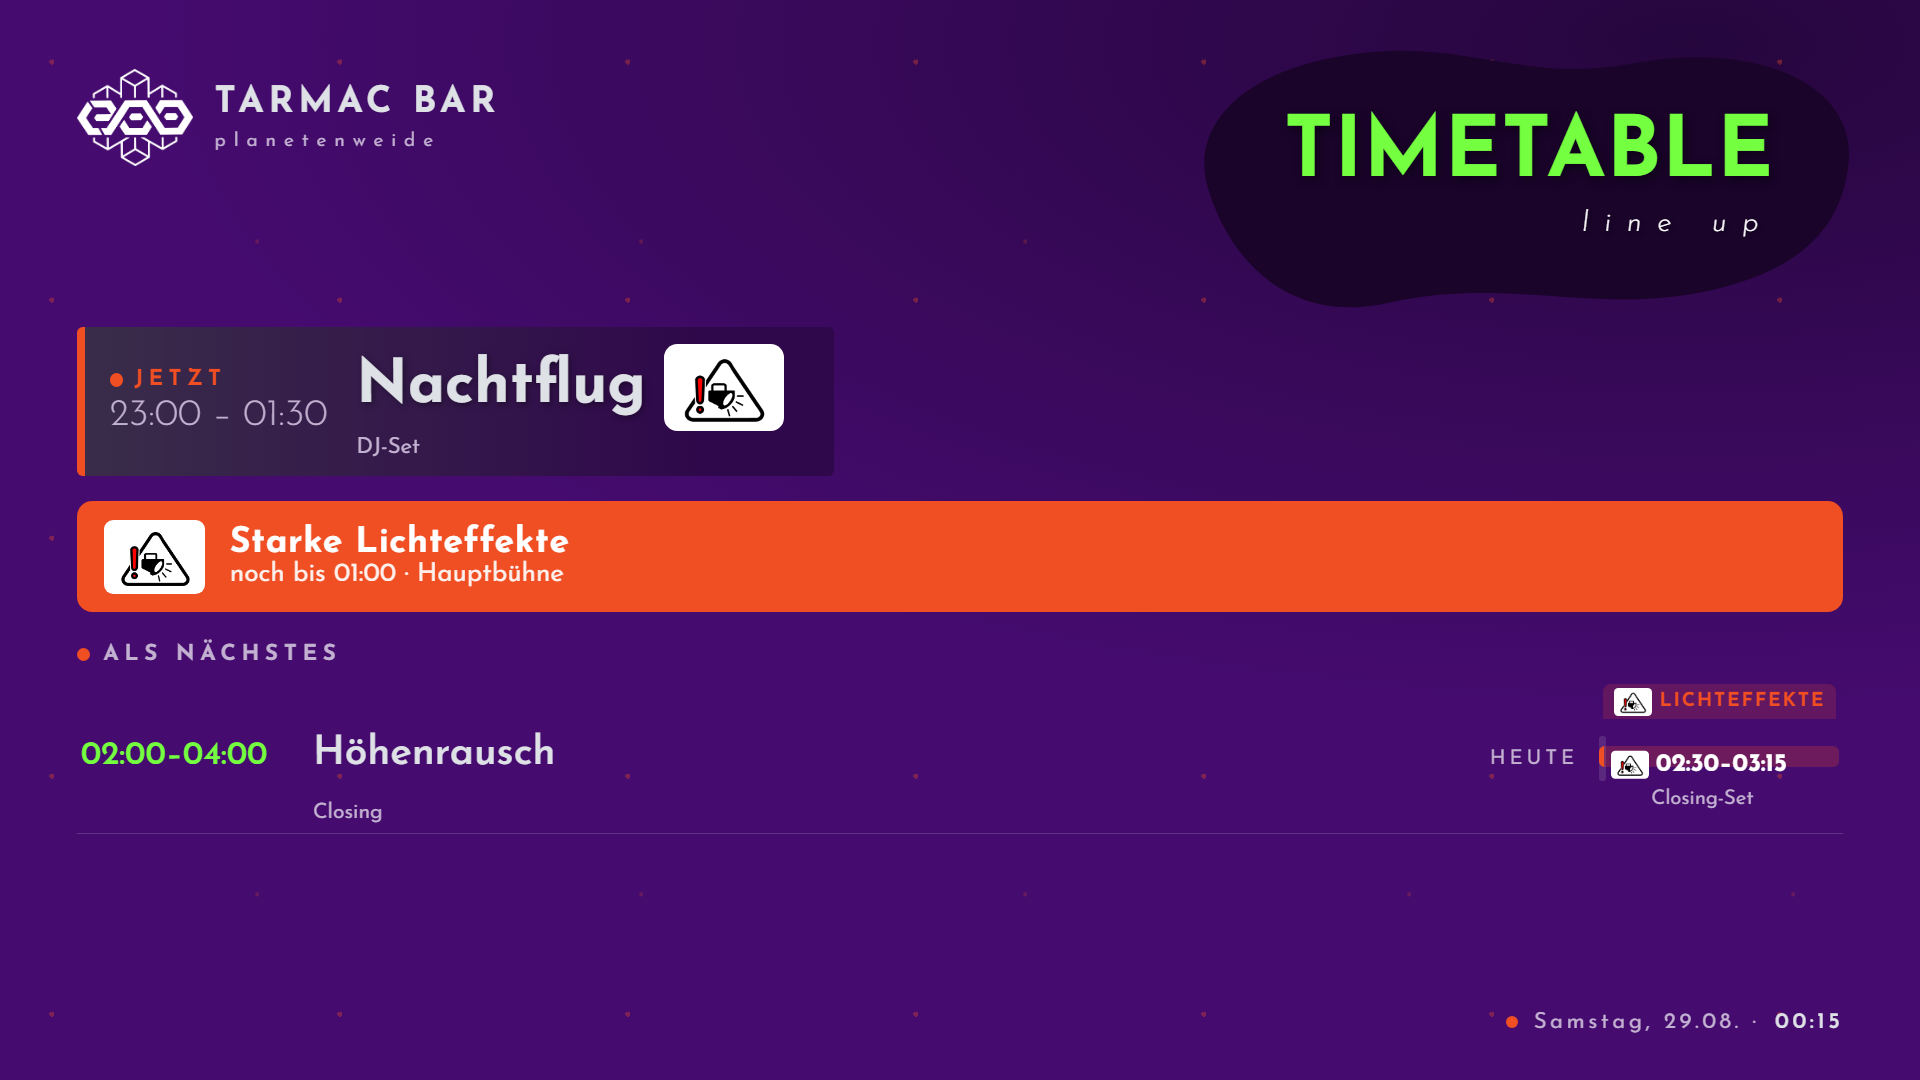
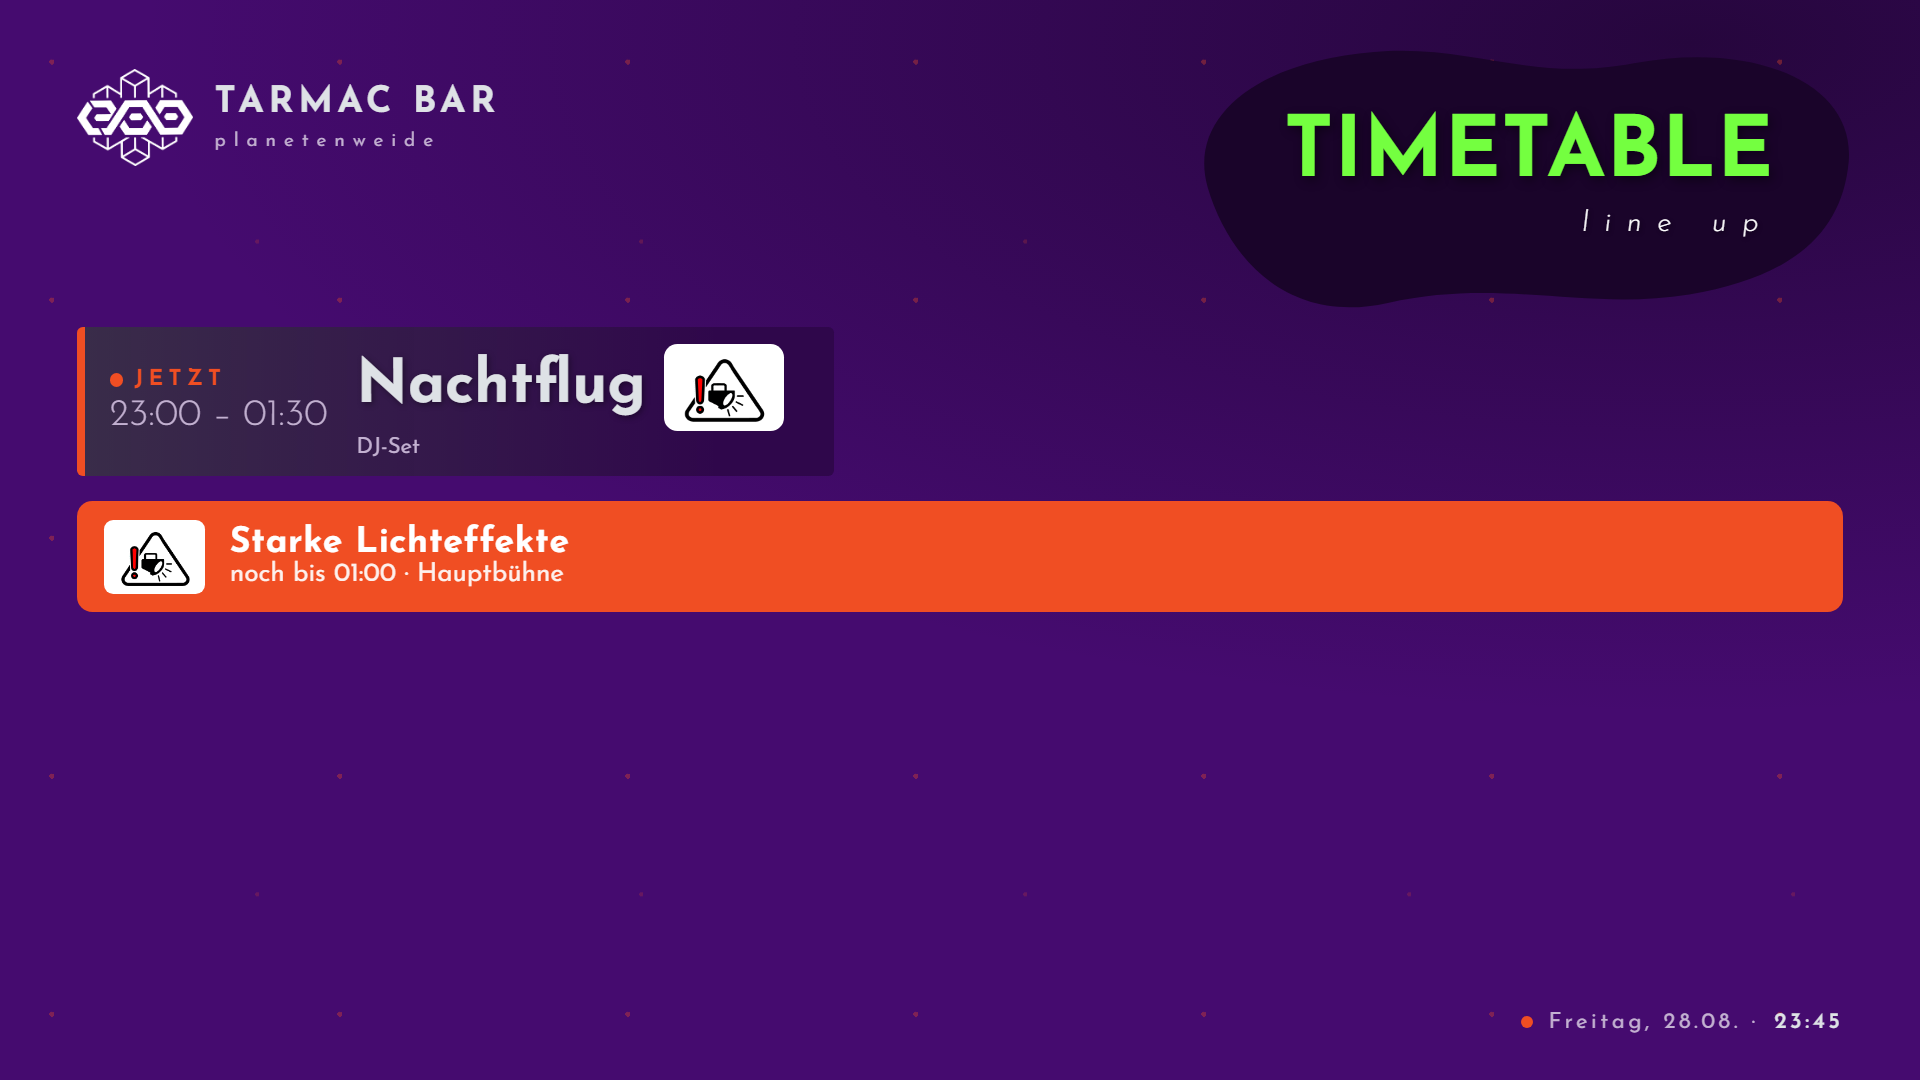
Lichtspalte aufgeraeumt
Das Warnzeichen steht jetzt einmal im Spaltenreiter statt in jeder Zeile -
und dort dafuer deutlich groesser. In jeder Zeile wiederholt war es Zierrat,
der die Uhrzeiten zudeckte.

Beim Nachmessen kam der eigentliche Grund fuer das unruhige Bild heraus: der
Block sass angeblich zeitanteilig in der Zeile, tatsaechlich zog min-height in
CSS jeden Block auf dieselben 30 px - bei einer Spur von 49 px. Die Lage war
also reine Behauptung, und schlimmer: der Block ragte bis zu 14 px aus seiner
Zeile heraus und stand neben dem naechsten Act.

Statt die Anteiligkeit zu retten, ist sie jetzt aufgegeben. Eine Zeile ist
keine drei Zeilenhoehen hoch; ein Drittel davon sind zwanzig Pixel, und darin
ist keine Uhrzeit lesbar. Ein Block, in dem "23:30-01:00" steht, sagt mehr als
ein Streifen an der rechnerisch richtigen Stelle.

- ein Block je Phase, der seine Zeile ausfuellt
- zwei Phasen in einer Zeile teilen sie sich; die beginnende bekommt mehr
  Platz und eine kraeftige Oberkante, die weiterlaufende ist schmaler
- die Bahn im Hintergrund faellt weg: als duenner Strich war sie eine dritte
  Kante neben dem Block, ueber die volle Breite sah jede lichtfreie Zeile aus
  wie eine Phase
- die Spur reicht bis an den Zeilenrand, das Polster schnitt sie vorher ab
- der Zusatz ("Hauptbuehne") steht ausserhalb des Textflusses, sonst schob er
  beim Zentrieren die Uhrzeit ueber die Blockkante

Tests: zwei alte hielten die alte Regel fest und sind umgeschrieben; neu dazu
[…]

diff --git a/test/e2e/lichteffekte.spec.js b/test/e2e/lichteffekte.spec.js
@@ -92,33 +92,65 @@ test.describe('Kennzeichnung im Timetable', () => {
     await expect(page.locator('.klLicht')).toHaveCount(0);
   });
 
-  test('der Balken sitzt versetzt - dort, wo die Phase wirklich anfaengt',
-    async ({ page, bar }) => {
-      bar.konfig(programm());
-      await zeitStellen(page, FREITAG_20_UHR);
-      await page.goto(bar.adresse + '/');
+  test('der Block fuellt die Zeile seines Acts aus', async ({ page, bar }) => {
+    bar.konfig(programm());
+    await zeitStellen(page, FREITAG_20_UHR);
+    await page.goto(bar.adresse + '/');
 
-      // Nachtflug 23:00-01:30, Licht 23:30-01:00: der Balken muss auf einem
-      // Fuenftel der Zeilenhoehe anfangen und bei vier Fuenfteln aufhoeren.
-      // Genau das war der Punkt an der eigenen Spalte - eine eigene Zeile
-      // konnte nicht zeigen, dass das Licht mitten im Set beginnt.
-      const lage = await page.locator('.ttRow.hatLicht').evaluate((zeile) => {
-        const spur = zeile.querySelector('.lichtSpur').getBoundingClientRect();
-        const balken = zeile.querySelector('.lichtBalken').getBoundingClientRect();
-        return {
-          von: (balken.top - spur.top) / spur.height,
-          bis: (balken.bottom - spur.top) / spur.height,
-          breite: balken.width
-        };
-      });
-
-      expect(lage.von).toBeGreaterThan(0.12);
-      expect(lage.von).toBeLessThan(0.28);
-      expect(lage.bis).toBeGreaterThan(0.72);
-      expect(lage.bis).toBeLessThan(0.88);
-      // Und breit genug, um aus der Entfernung ueberhaupt aufzufallen
-      expect(lage.breite).toBeGreaterThan(30);
+    // Der Block sass frueher zeitanteilig in der Zeile. Zu sehen war das nie:
+    // eine Zeile ist keine drei Zeilenhoehen hoch, und eine Mindesthoehe im
+    // CSS zog jeden Block auf dasselbe Mass - dafuer aber aus seiner Zeile
+    // heraus, neben den falschen Act. Jetzt fuellt er seine Zeile, und wann
+    // genau es blitzt, steht als Uhrzeit darin.
+    const lage = await page.locator('.ttRow.hatLicht').evaluate((zeile) => {
+      const spur = zeile.querySelector('.lichtSpur').getBoundingClientRect();
+      const balken = zeile.querySelector('.lichtBalken').getBoundingClientRect();
+      return {
+        von: (balken.top - spur.top) / spur.height,
+        bis: (balken.bottom - spur.top) / spur.height,
+        breite: balken.width
+      };
     });
+
+    expect(lage.von).toBeLessThan(0.02);
+    expect(lage.bis).toBeGreaterThan(0.98);
+    // Und breit genug, um aus der Entfernung ueberhaupt aufzufallen
+    expect(lage.breite).toBeGreaterThan(30);
+  });
+
+  test('kein Block ragt in die Nachbarzeile', async ({ page, bar }) => {
+    // Der eigentliche Fehler: eine Mindesthoehe im CSS schob den Block ueber
+    // die Unterkante seiner Zeile hinaus - er stand dann neben dem naechsten
+    // Act. Gemessen wurden bis zu vierzehn Pixel daneben.
+    bar.konfig(programm({
+      lichteffekte: [
+        { id: 'l1', date: '2026-08-28', start: '23:30', end: '01:00', note: '' },
+        { id: 'l2', date: '2026-08-29', start: '01:15', end: '01:40', note: 'kurz' },
+        { id: 'l3', date: '2026-08-29', start: '02:50', end: '03:05', note: 'sehr kurz' }
+      ]
+    }));
+    await zeitStellen(page, FREITAG_20_UHR);
+    await page.goto(bar.adresse + '/');
+    await page.waitForSelector('.ttRow.hatLicht');
+
+    const ausreisser = await page.evaluate(() => {
+      const raus = [];
+      document.querySelectorAll('.ttRow').forEach((zeile) => {
+        const spur = zeile.querySelector('.lichtSpur');
+        if (!spur) return;
+        const s = spur.getBoundingClientRect();
+        zeile.querySelectorAll('.lichtBalken').forEach((b) => {
+          const r = b.getBoundingClientRect();
+          if (r.top < s.top - 1 || r.bottom > s.bottom + 1) {
+            raus.push({ oben: Math.round(r.top - s.top),
+                        unten: Math.round(r.bottom - s.bottom) });
+          }
+        });
+      });
+      return raus;
+    });
+    expect(ausreisser).toEqual([]);
+  });
 
   test('ueber zwei Acts laeuft der Balken durch', async ({ page, bar }) => {
     bar.konfig(programm({
@@ -224,20 +256,32 @@ test.describe('Das Zeichen', () => {
     await zeitStellen(page, FREITAG_20_UHR);
     await page.goto(bar.adresse + '/');
 
-    const bild = page.locator('.lichtSpur .lichtZeichen img');
+    const bild = page.locator('.klLicht .lichtZeichen img');
     await expect(bild).toHaveAttribute('src', 'branding/lichteffekte.png');
     await bildGeladen(bild);
 
     // Die gelieferte Grafik ist schwarz auf transparent. Ohne helle Flaeche
     // waere sie auf dem dunklen Hintergrund praktisch unsichtbar.
-    const grund = await page.locator('.lichtSpur .lichtZeichen')
+    const grund = await page.locator('.klLicht .lichtZeichen')
       .evaluate(el => getComputedStyle(el).backgroundColor);
     expect(grund).toBe('rgb(255, 255, 255)');
 
     // Und sie muss eine brauchbare Groesse haben, nicht ein paar Pixel
     const hoehe = await bild.evaluate(el => el.getBoundingClientRect().height);
-    expect(hoehe).toBeGreaterThan(10);
+    expect(hoehe).toBeGreaterThan(20);
   });
+
+  test('steht einmal ueber der Spalte, nicht in jeder Zeile',
+    async ({ page, bar }) => {
+      // In jeder Zeile wiederholt war es Zierrat, der die Uhrzeiten zudeckte.
+      bar.konfig(programm());
+      await zeitStellen(page, FREITAG_20_UHR);
+      await page.goto(bar.adresse + '/');
+      await page.waitForSelector('.ttRow.hatLicht');
+
+      await expect(page.locator('.klLicht .lichtZeichen')).toHaveCount(1);
+      await expect(page.locator('.lichtSpur .lichtZeichen')).toHaveCount(0);
+    });
 });
 
 test.describe('Eigene Seite fuers Wochenende', () => {

diff --git a/src/player.css b/src/player.css
@@ -954,6 +954,10 @@ body.uhrUnsicher .fussUhr b { color: var(--accent2); }
 }
 .lichtZeichen.gross { border-radius: 0.3em; padding: 0.16em 0.24em; }
 .lichtZeichen.gross img { height: 2.1em; }
+/* Im Spaltenreiter steht es fuer die ganze Spalte - dafuer darf es deutlich
+   groesser sein als eine Zeilenbeschriftung. */
+.lichtZeichen.kopf { border-radius: 0.28em; padding: 0.14em 0.2em; }
+.lichtZeichen.kopf img { height: 1.75em; }
 
 /* Eigene Spalte statt eigener Zeile.
 
@@ -983,7 +987,7 @@ body.uhrUnsicher .fussUhr b { color: var(--accent2); }
 
    Die Beschriftung muss in die Spaltenbreite passen - mit der Sperrung des
    uebrigen Kleinkrams lief sie ueber den Bildrand hinaus. */
-.ttKopf { margin-bottom: 0.25em; }
+.ttKopf { margin-bottom: 0.1em; }
 .klLicht {
   grid-column: 4;
   justify-self: start;
@@ -999,7 +1003,7 @@ body.uhrUnsicher .fussUhr b { color: var(--accent2); }
   /* Angedeuteter Reiter: oben rund, unten offen zur Spalte hin */
   background: color-mix(in srgb, var(--accent2) 18%, transparent);
   border-radius: 0.4em 0.4em 0 0;
-  padding: 0.22em 0.55em 0.18em;
+  padding: 0.18em 0.5em 0.14em;
 }
 body.spar .klLicht { background: none; }
 
@@ -1011,20 +1015,16 @@ body.spar .klLicht { background: none; }
   grid-row: 1 / -1;
   align-self: stretch;
   min-height: 2.6em;
+  /* Ueber das Polster der Zeile hinweg: sonst blieben von einer Zeile nur zwei
+     Drittel Spur uebrig, und die Lage einer Phase darin wurde zur Behauptung. */
+  margin-top: -0.5em;
+  margin-bottom: -0.5em;
 }
 
-/* Eine dezente Achse, damit die Spalte als Spalte lesbar ist und der Balken
-   erkennbar ein Ausschnitt davon. */
-.lichtSpur::before {
-  content: '';
-  position: absolute;
-  left: 0;
-  top: 0.15em;
-  bottom: 0.15em;
-  width: 0.32em;
-  border-radius: 0.16em;
-  background: color-mix(in srgb, #fff 12%, transparent);
-}
+/* Keine Bahn im Hintergrund mehr. Als duenner Strich stand sie als dritte
+   Kante neben dem Block, ueber die volle Breite sah jede lichtfreie Zeile aus
+   wie eine Phase. Wofuer die Spalte da ist, sagt der Reiter darueber - Farbe
+   bekommt nur, wo wirklich Licht ist. */
 
 .lichtBalken {
   position: absolute;
@@ -1033,43 +1033,58 @@ body.spar .klLicht { background: none; }
   /* Ein duenner Strich waere rechnerisch richtig und trotzdem aus drei Metern
      nicht zu sehen. Also eine Flaeche ueber die ganze Spaltenbreite: die Lage
      bleibt dieselbe, sie faellt nur auf. */
-  background: color-mix(in srgb, var(--accent2) 24%, transparent);
-  border-left: 0.3em solid var(--accent2);
-  /* Eine kurze Phase in einem langen Set ergibt sonst einen Streifen von
-     wenigen Pixeln. */
-  min-height: 1.1em;
+  background: color-mix(in srgb, var(--accent2) 34%, transparent);
+  /* Kein min-height: eine Mindesthoehe schob den Block aus seiner Zeile heraus,
+     neben den falschen Act. Die Hoehe kommt jetzt aus der Zeile selbst. */
   /* Laeuft die Phase ueber mehrere Acts, laeuft die Flaeche durch - rund wird
      sie nur da, wo die Phase wirklich anfaengt und aufhoert. */
   border-radius: 0;
 }
-.lichtBalken.beginnt { border-top-left-radius: 0.3em; border-top-right-radius: 0.3em; }
+/* Nur der Anfang bekommt eine kraeftige Kante. Sie sagt: hier geht es los -
+   und steht nicht mehr an jedem Durchlaufstueck. */
+.lichtBalken.beginnt {
+  border-top-left-radius: 0.3em;
+  border-top-right-radius: 0.3em;
+  box-shadow: inset 0 0.22em 0 0 var(--accent2);
+}
 .lichtBalken.endet { border-bottom-left-radius: 0.3em; border-bottom-right-radius: 0.3em; }
+/* Teilen sich zwei Phasen eine Zeile, trennt sie ein schmaler Spalt - sonst
+   sieht man einen Block mit einer Kante mittendrin. */
+.lichtBalken.geteilt { margin-bottom: 0.14em; }
 
 .lichtMarke {
   position: absolute;
-  left: 0.6em;
-  right: 0.2em;
+  left: 0.7em;
+  right: 0.5em;
   display: flex;
   align-items: center;
   gap: 0.35em;
-  /* Auf die Hoehe des Balkenanfangs setzen, nicht darunter haengen */
-  transform: translateY(0.25em);
+  /* Auf die Mitte des Blocks gesetzt (siehe lichtSpurHtml) und von dort aus
+     zentriert - so sitzt die Beschriftung im Block statt auf seiner Kante. */
+  transform: translateY(-50%);
   line-height: 1.15;
-  flex-wrap: wrap;
 }
 .lichtMarke .lmZeit {
-  font-size: 1.3em;
+  font-size: 1.35em;
   font-weight: 700;
   font-variant-numeric: tabular-nums;
   color: #fff;
   white-space: nowrap;
 }
 .lichtMarke .lmNote {
+  /* Aus dem Fluss genommen: sonst zaehlt der Zusatz zur Hoehe der Marke, und
+     das Zentrieren schiebt die Uhrzeit ueber die Oberkante ihres Blocks. So
+     sitzt die Zeit mittig im Block und der Zusatz haengt buendig darunter. */
+  position: absolute;
+  top: 100%;
+  left: 0;
+  right: 0;
   font-size: 1.05em;
-  color: var(--muted);
-  flex-basis: 100%;
-  margin-left: 2em;
-  margin-top: 0.1em;
+  line-height: 1.2;
+  color: color-mix(in srgb, #fff 78%, transparent);
+  white-space: nowrap;
+  overflow: hidden;
+  text-overflow: ellipsis;
 }
 
 /* Nichts danebenstehendes: Phasen, die in eine Pause fallen */
@@ -1083,8 +1098,7 @@ body.spar .klLicht { background: none; }
 }
 
 /* Im Sparmodus faellt color-mix weg - das kostet auf dem Pi spuerbar. */
-body.spar .lichtSpur::before { background: rgba(255, 255, 255, 0.12); }
-body.spar .lichtBalken { background: none; }
+body.spar .lichtBalken { background: rgba(255, 255, 255, 0.16); }
 
 /* Laeuft gerade eine Lichtphase, steht sie ueber der Liste - wer den Raum
    deswegen verlassen will, soll das nicht aus einer Tabellenzeile heraussuchen

diff --git a/src/player.js b/src/player.js
@@ -913,7 +913,7 @@ function renderTimetable() {
     // Kopf ueber der Lichtspalte, damit klar ist, wofuer die Spalte steht -
     // ohne ihn waere der Balken nur ein Streifen neben dem Act.
     if (mitLicht) {
-      body += '<div class="ttKopf"><span class="klLicht">' + lichtZeichen() +
+      body += '<div class="ttKopf"><span class="klLicht">' + lichtZeichen('kopf') +
         '<span>Lichteffekte</span></span></div>';
     }
 
@@ -964,33 +964,50 @@ function renderTimetable() {
 
 // Die Lichtspalte einer Zeile.
 //
-// Der Balken sitzt genau dort, wo die Phase innerhalb der Zeile liegt - faengt
-// das Licht mitten im Set an, faengt auch der Balken mittendrin an. Genau das
-// war mit einer eigenen Zeile nicht zu sehen.
+// Ein Block je Phase, neben dem Act, zu dem sie gehoert. Der Block fuellt die
+// Zeile aus; wann genau es blitzt, steht als Uhrzeit darin.
+//
+// Er sass frueher zeitanteilig in der Zeile - fing das Licht mitten im Set an,
+// fing auch der Block mittendrin an. Das war nur nie zu sehen: eine Zeile ist
+// keine drei Zeilenhoehen hoch, ein Drittel davon sind zwanzig Pixel, und eine
+// Mindesthoehe im CSS zog ohnehin jeden Block auf dasselbe Mass - dafuer aber
+// aus seiner Zeile heraus, neben den falschen Act. Ein Block, in dem die
+// Uhrzeit lesbar steht, sagt mehr als ein Streifen an der richtigen Stelle.
 //
 // Beschriftet wird nur die Zeile, in der die Phase beginnt; laeuft sie ueber
-// mehrere Acts, laeuft der Balken einfach durch.
+// mehrere Acts, bleibt der Block dort unbeschriftet und ohne runde Kante - so
+// ist zu sehen, dass sie weiterlaeuft.
 function lichtSpurHtml(spuren) {
   if (!spuren.length) return '<div class="lichtSpur"></div>';
 
+  // Mehrere Phasen in einer Zeile teilen sie sich - sonst laegen sie
+  // uebereinander und man saehe nur die letzte. Wer hier anfaengt, bekommt
+  // mehr Platz: das ist die Nachricht, und nur dort steht eine Uhrzeit. Eine
+  // Phase, die bloss weiterlaeuft, ist Zusammenhang und darf schmaler sein.
+  const gewicht = (s) => (s.beginntHier ? 1 : 0.55);
+  const summe = spuren.reduce((n, s) => n + gewicht(s), 0);
+
   let inhalt = '';
-  for (const s of spuren) {
-    const oben = (s.von * 100).toFixed(2);
-    const hoch = Math.max(0, (s.bis - s.von) * 100).toFixed(2);
+  let oben = 0;
+  spuren.forEach((s) => {
+    const hoch = (gewicht(s) / summe) * 100;
     inhalt += '<span class="lichtBalken' +
       (s.beginntHier ? ' beginnt' : '') + (s.endetHier ? ' endet' : '') +
-      '" style="top:' + oben + '%;height:' + hoch + '%"></span>';
+      (spuren.length > 1 ? ' geteilt' : '') +
+      '" style="top:' + oben.toFixed(2) + '%;height:' + hoch.toFixed(2) + '%"></span>';
 
     if (s.beginntHier) {
-      inhalt += '<span class="lichtMarke" style="top:' + oben + '%">' +
-        lichtZeichen() +
+      // Kein Zeichen an der einzelnen Phase: es steht einmal ueber der Spalte.
+      // In jeder Zeile wiederholt war es Zierrat, der die Zeiten zudeckte.
+      inhalt += '<span class="lichtMarke" style="top:' + (oben + hoch / 2).toFixed(2) + '%">' +
         '<span class="lmZeit">' + timeLabel(s.fenster.se.start) + '&ndash;' +
         timeLabel(s.fenster.se.end) + '</span>' +
         (s.fenster.eintrag.note
           ? '<span class="lmNote">' + escapeHtml(s.fenster.eintrag.note) + '</span>' : '') +
         '</span>';
     }
-  }
+    oben += hoch;
+  });
   return '<div class="lichtSpur">' + inhalt + '</div>';
 }
 
@@ -999,7 +1016,8 @@ function lichtSpurHtml(spuren) {
 // Auf dem dunklen Hintergrund der Anzeige waere davon kaum etwas zu sehen, und
 // eine Warnung, die niemand liest, ist keine.
 function lichtZeichen(groesse) {
-  return '<span class="lichtZeichen' + (groesse === 'gross' ? ' gross' : '') + '">' +
+  const klasse = (groesse === 'gross' || groesse === 'kopf') ? ' ' + groesse : '';
+  return '<span class="lichtZeichen' + klasse + '">' +
          '<img src="' + LICHT_SYMBOL + '" alt="Starke Lichteffekte"></span>';
 }
 

diff --git a/README.md b/README.md
@@ -373,14 +373,22 @@ muss die echte Zeitspanne sehen und nicht die des DJs, der zufällig gerade
 spielt. **Ein Eintrag ohne Endzeit wird nicht angezeigt.**
 
 Auf dem Timetable bekommt das eine **eigene Spalte am rechten Rand**, mit dem
-Warnzeichen als Reiter darüber. Der Balken darin sitzt genau dort, wo die Phase
-innerhalb des Sets liegt: fängt das Licht mitten im Set an, fängt auch der
-Balken mittendrin an. Beschriftet wird er mit seiner eigenen Zeitspanne.
+Warnzeichen als Reiter darüber — einmal über der Spalte, nicht an jedem Block.
+Neben jedem betroffenen Act steht ein Block mit **seiner eigenen Zeitspanne**,
+nicht der des Acts. Eine kräftige Kante markiert, wo eine Phase anfängt.
+
+Der Block sitzt bewusst nicht zeitanteilig in der Zeile. Das war einmal so
+gedacht, ließ sich aber nicht einlösen: eine Zeile ist keine drei Zeilenhöhen
+hoch, ein Drittel davon sind zwanzig Pixel — und in zwanzig Pixel passt keine
+lesbare Uhrzeit. Ein Block, in dem **23:30–01:00** steht, sagt mehr als ein
+Streifen an der rechnerisch richtigen Stelle.
 
 ![Lichteffekte im Timetable](docs/screenshots/anzeige-lichteffekte-timetable.png)
 
-Läuft eine Phase über zwei Acts hinweg, läuft der Balken durch — rund
-abgeschlossen wird er nur da, wo sie wirklich anfängt und aufhört. Und eine
+Läuft eine Phase über zwei Acts hinweg, steht sie neben beiden — beschriftet
+nur dort, wo sie anfängt, und rund abgeschlossen nur da, wo sie wirklich
+anfängt und aufhört. Fallen zwei Phasen in denselben Act, teilen sie sich die
+Zeile; die beginnende bekommt mehr Platz, denn sie ist die Nachricht. Und eine
 Phase, zu der gar kein Act danebensteht (in einer Pause etwa), erscheint als
 Zeile **Außerdem starke Lichteffekte** unter der Liste; sie fällt nicht unter
 den Tisch, nur weil die Spalte sie nicht aufnehmen kann.
